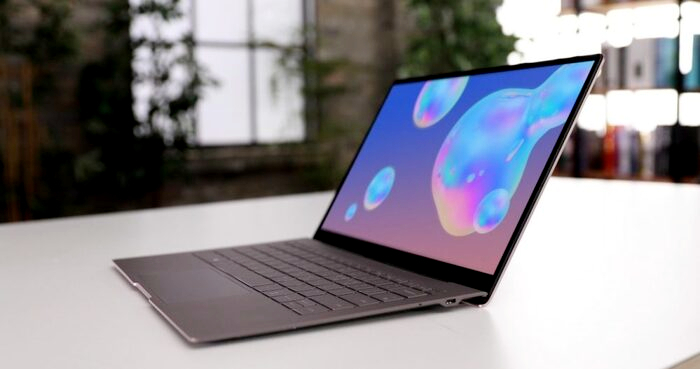
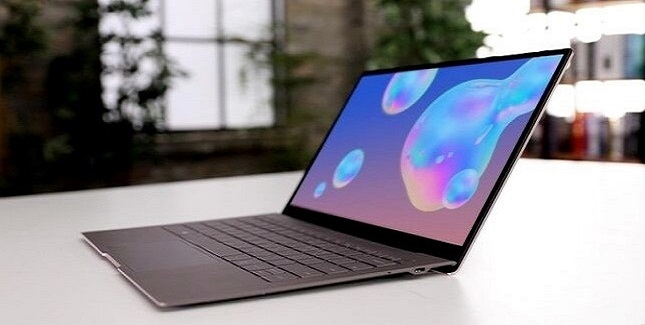
Alterações carrossel

diff --git a/src/app/inicio/inicio.component.css b/src/app/inicio/inicio.component.css
@@ -7,23 +7,23 @@
 .imagemCarousel{
 width: 100%; 
 margin-top: 20px;
+object-fit: contain;
+
 } 
+
 
 
 #carouselExampleIndicators{
 margin-bottom: 10px;
 
 }
-.imgCarr{
+/* .imgCarr{
 height: 100% !important;
-width: 100% !important;
 
-}
-/* .carousel-inner{
-padding: 10px;
-margin: 10px;
+}  */
 
-} */
+
+
 
 .btn{
     align-items: center;
@@ -84,11 +84,50 @@ margin: 10px;
   margin-bottom: 25px;
   
 }
-
-
-
-
  a{
   text-decoration: none;
   color: #000000;
  }
+
+
+
+.carousel-inner{
+  max-height: 600px;
+  height: 100%;
+
+}
+
+
+ 
+@media(max-width: 1399px) {
+  .carousel-inner{
+    max-height: 550px;
+  }
+  }
+
+  @media(max-width: 1199px) {
+    .carousel-inner{
+      max-height: 450px;
+    }
+    }
+
+    @media(max-width: 991px) {
+      .carousel-inner{
+        max-height: 350px;
+      }
+      }
+      @media(max-width: 767px) {
+        .carousel-inner{
+          max-height: 250px;
+        }
+        }
+        @media(max-width: 507px) {
+          .carousel-inner{
+            max-height: 240px;
+          }
+          }
+          @media(max-width: 425px) {
+            .carousel-inner{
+              max-height: 200px;
+            }
+            }

diff --git a/src/app/inicio/inicio.component.html b/src/app/inicio/inicio.component.html
@@ -15,14 +15,13 @@
     </div>
     <div class="carousel-inner">
       <div class="carousel-item active imgCarr">
-        <img class="d-block w-100" src="../../assets/img/Galaxy-Book-e1620945670190 carro.jpg" height="400px" width="400px" class="imagemCarousel"
-          alt="samsung">
+        <img class="d-block w-100 imagemCarousel" src="../../assets/img/Galaxy-Book-e1620945670190 carro.jpg" alt="samsung">
       </div>
       <div class="carousel-item imgCarr">
-        <img class="d-block w-100" src="../../assets/img/buds-2.jpg" height="400px" width="400px" class="imagemCarousel" alt="samsung">
+        <img class="d-block w-100 imagemCarousel" src="../../assets/img/buds-2.jpg"   alt="samsung">
       </div>
       <div class="carousel-item imgCarr">
-        <img src="../../assets/img/Samsung_Galaxy-S22-1-1536x864.jpg" height="400px" width="400px" class="imagemCarousel" alt="sa">
+        <img class="d-block w-100 imagemCarousel" src="../../assets/img/Samsung_GalaxyS22-series_TOP-1536x864-1-989x556-1.jpg"   alt="samsung">
       </div>
     </div>
     <button class="carousel-control-prev" typ e="button" data-bs-target="#carouselExampleIndicators"
